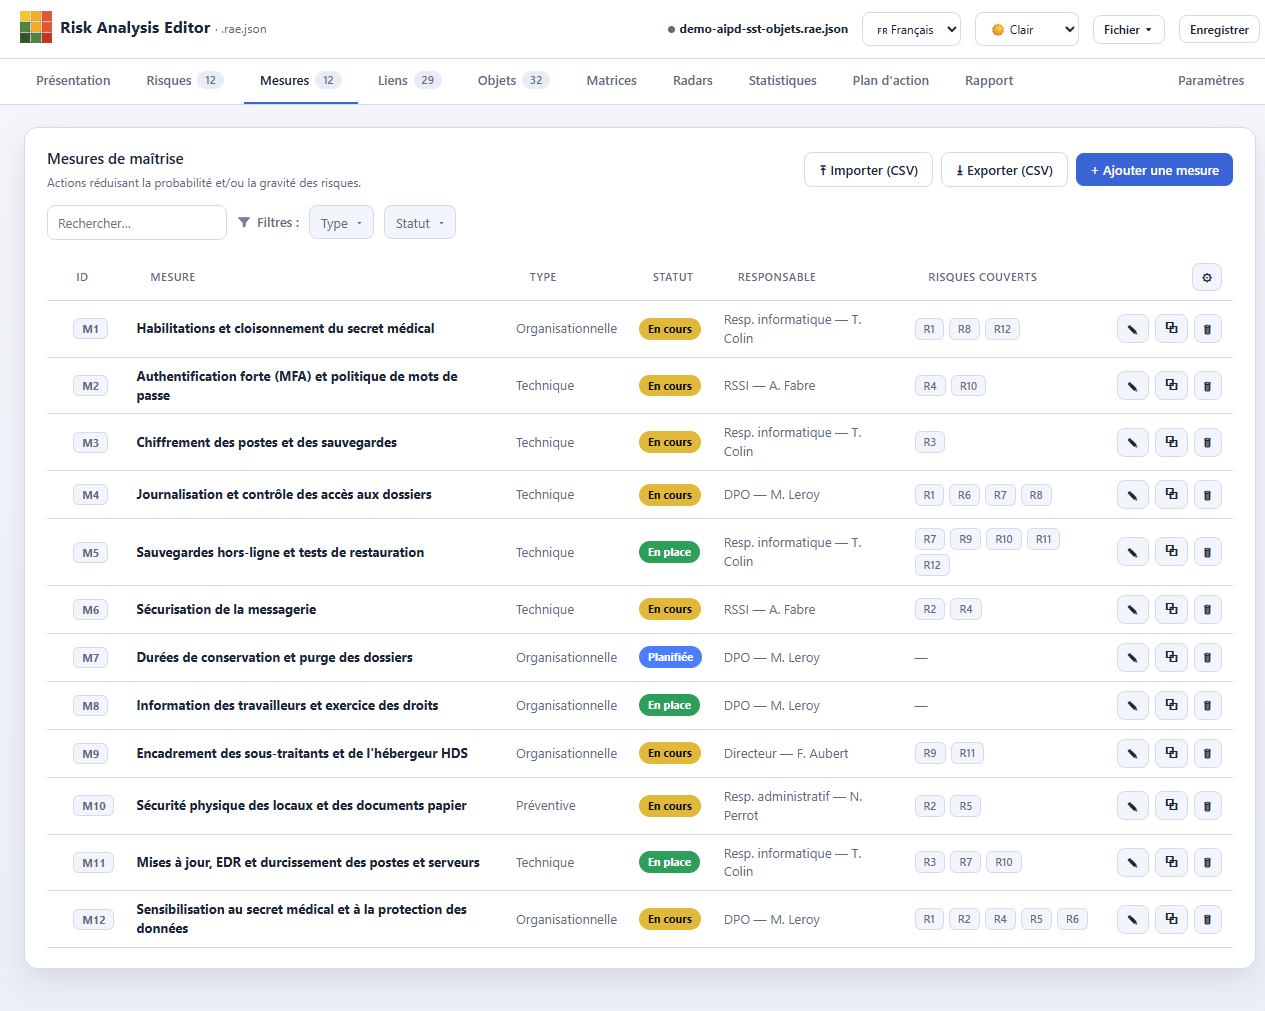
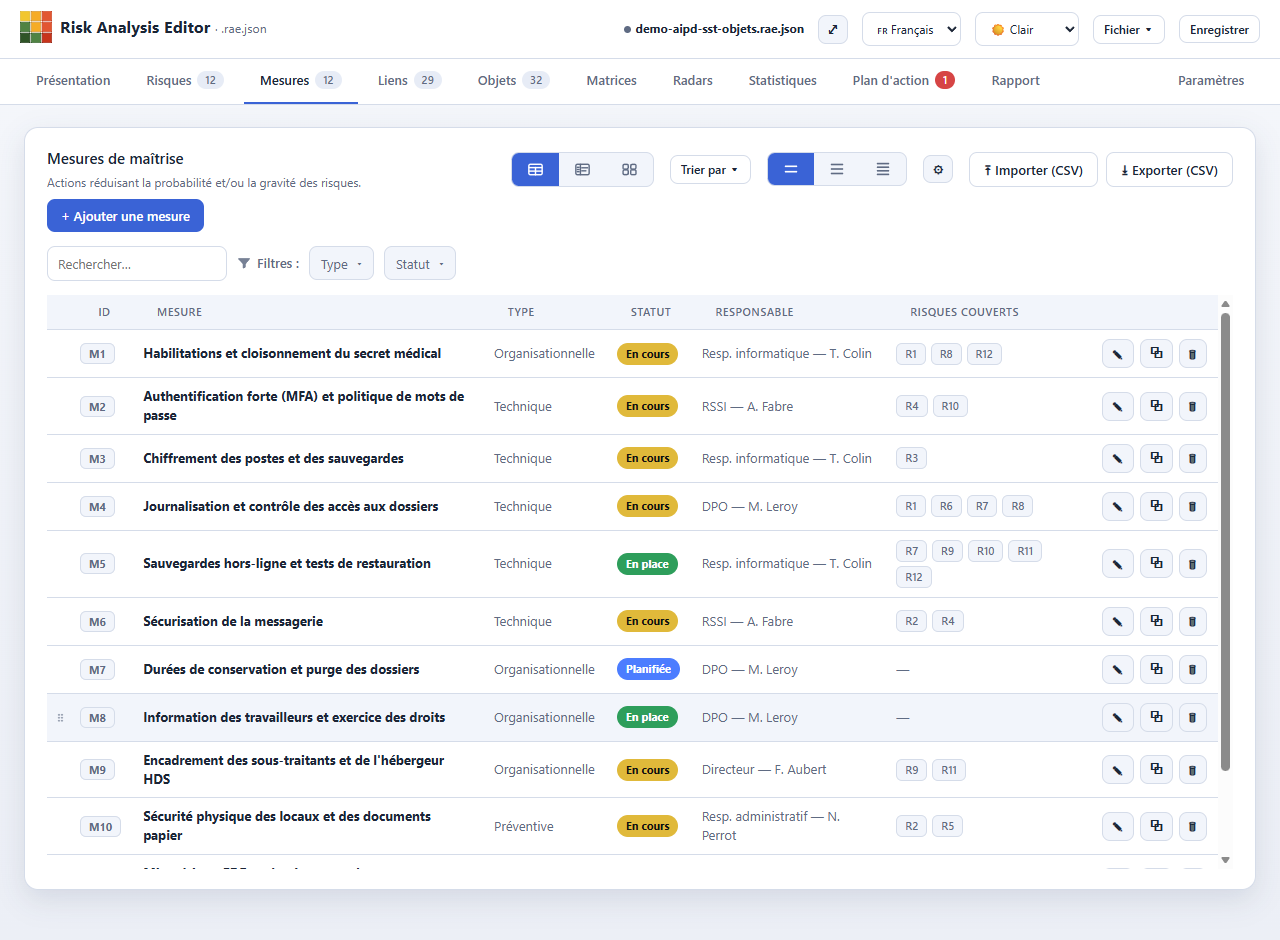
docs(images): régénère les captures des registres, du plan et du menu colonnes (3.1.0)
Captures refaites via tools/shots-guide.py et shots-readme.py, reflétant la nouvelle
barre d'outils (sélecteur de vue + densité en icônes, ⚙ Colonnes déplacé), le menu
colonnes à trois états, et le bouton ✎ du Plan d'action :
- guide : 07-risques, 09-mesures, 12-liens-details, 16-plan-echeancier,
  17-plan-kanban, 19-menu-colonnes, 26-objets ;
- README : capture-plan-echeancier (colonne ✎).
tools/shots-guide.py : sélecteur du ⚙ mis à jour (barre d'outils au lieu de l'en-tête)
pour la scène guide-19.

diff --git a/tools/shots-guide.py b/tools/shots-guide.py
@@ -60,7 +60,7 @@ SHOTS = [
     ("guide-22-parametres-rapport", DEMO+"&tab=settings.report",
         "setParamMode('report')", True,  1180),
     ("guide-19-menu-colonnes",      DEMO+"&tab=risks",
-        "document.querySelector('#risksTableEl thead .colgear').click()", False, 940),
+        "document.querySelector('#view-risks .col-mount .colgear').click()", False, 940),
     ("guide-20-menu-fichier",       DEMO+"&tab=risks",
         "document.getElementById('btnFile').click()", False, 620),
     ("guide-21-aide-raccourcis",    DEMO+"&tab=risks",
